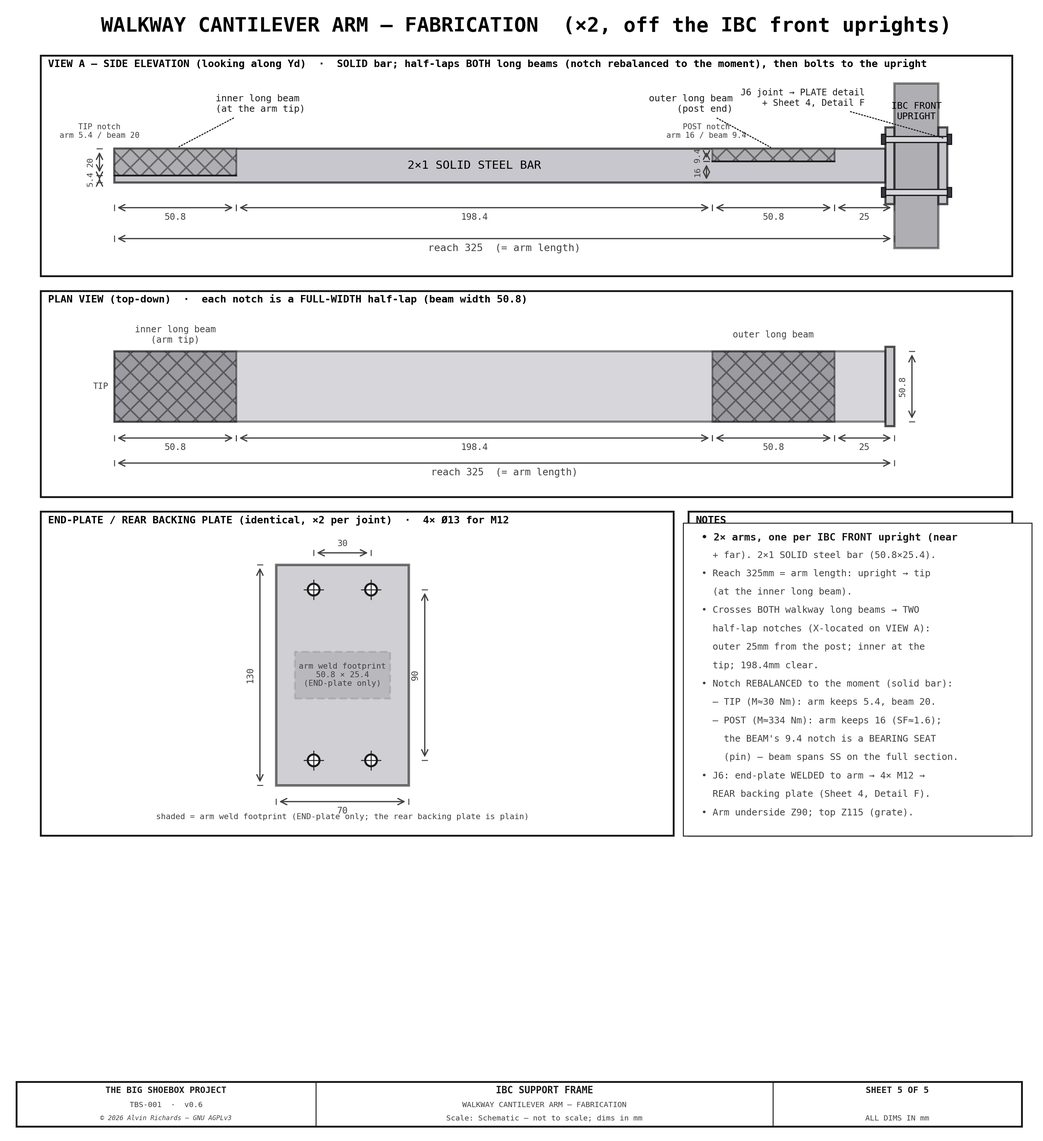
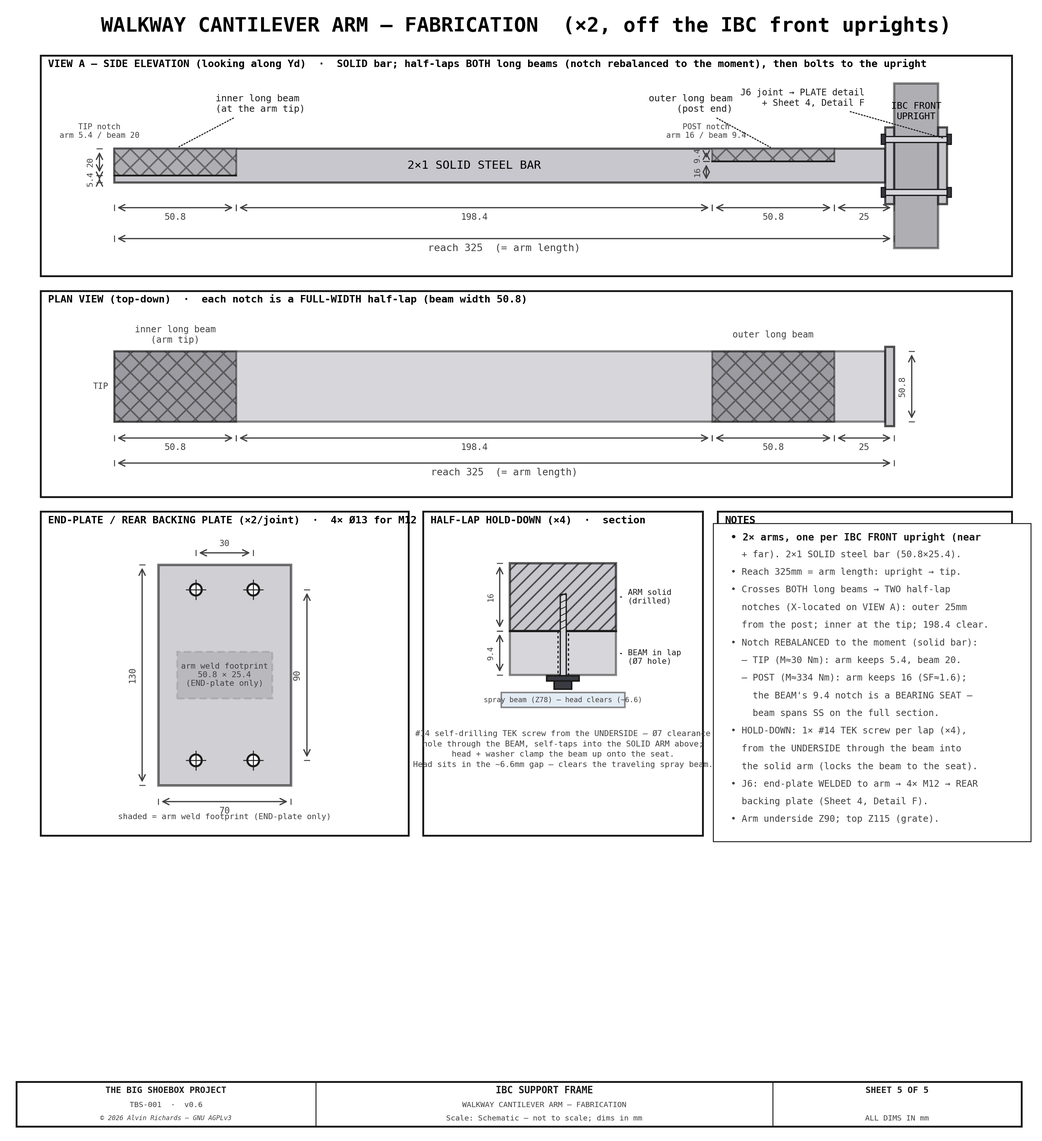
Half-lap hold-down: #14 TEK screw per lap (Sheet 5 detail + model + parts)
The long beams sat on the arm's bearing seat by gravity only. Added a positive
fastener: one #14 self-drilling TEK screw per half-lap (4 total: 2 arms x 2
crossings), driven from the UNDERSIDE through a O7 clearance hole in the beam,
self-tapping into the SOLID arm above (anti-lift/anti-slide; head sits in the
~6.6mm gap and clears the traveling spray beam).

- Sheet 5: new HALF-LAP HOLD-DOWN section (hatched arm on top, beam+hole below,
  screw from the underside).
- Model: ibc_cantilever_arms gains the 4 TEK-screw cylinders at the crossings.
- parts.py: +walkway-arm-holddown (4x #14 TEK + washer); costing +$2/$3/$4
  (walkway 2,150/2,593/3,060; grand total 26,742/31,272/37,875).
- Report 3.4 note + RELEASE.

diff --git a/src/generators/costing.py b/src/generators/costing.py
@@ -153,6 +153,7 @@ WALKWAY = [
     LineItem("Combined corner plates, 10mm steel (×2)", 50, 65, 80, "Right corners — shared with the bottom film rail"),
     LineItem("M12×70 partial-thread bolts + nuts/washers (~20)", 53, 53, 53, "91280A732 $1.736 + plain nut + 4 flat + split /bolt; wall cleats + combined plates (the 2 center arms moved to the J6 end-plate line below, −4 bolts)"),
     LineItem("Walkway-arm J6 end-plate hardware (8× M12×100 + 4 plates 70×130×8 + 8 crush sleeves)", 33, 44, 55, "2026-08-16: the arm→upright joint is a bolted END-PLATE (welded to arm) + rear backing plate + 4 M12/arm through the upright, with an internal crush sleeve/bolt (mirrors the container-wall cantilever detail). ESTIMATE — firm SKUs at fab."),
+    LineItem("Half-lap hold-down screws (#14 TEK + washer, ×4)", 2, 3, 4, "2026-08-16: 1 self-drilling TEK screw per half-lap (2 arms × 2 crossings), from the underside through a Ø7 clearance hole in the beam into the solid arm — positively secures the beam to the bearing seat (410 SS, J8/J9 family)."),
     LineItem("316 SS hold-down clips (FRP M/G-clip, ×20)", 25, 32, 40, "Near/far/right walkway GRP grating retention"),
     LineItem("Drum-exit punch-out — extra GRP grating (~0.23 m²)", 50, 57, 65, "600mm-deep landing at the light-lock exit"),
     LineItem("Left floor-leg cantilever brackets (×5)", 65, 80, 105, "#26: 2×2×0.120in SHS posts + 2×1×0.120in arms (was 50×50×3 + 40×40×3) + foot plates; material firm MetalsDepot, fab deferred"),
@@ -1026,8 +1027,8 @@ EXPECTED = { # the figures the docs are reconciled to (this session)
     "lean": {"chem": 951, "total": 1250, "per_print": 25}, # 2026-07-26: Artcraft bulk — AmFe $64.20/kg + ferricyanide $51.01/kg
     "standard": {"chem": 1414, "total": 1710, "per_print": 34}, # 2026-07-26: Artcraft bulk — AmFe $64.20/kg + ferricyanide $51.01/kg
     "rich": {"chem": 2802, "total": 3100, "per_print": 62}, # 2026-07-26: Artcraft bulk — AmFe $64.20/kg + ferricyanide $51.01/kg
-    "grand_total": (26740, 31269, 37871), # 2026-08-16: +$62/$85/$108 walkway (RWK center arms → solid 2×1 flat bar + J6 end-plate hardware). 2026-08-15: +$11/$20 water (36 TEK bracket→post screws, J8/J9). 2026-08-15: −$12 ibc-frame (J7 reverted to 1 centered/bar, 16→8 M12×40). 2026-08-14: +$12 ibc-frame (8 M12×40 wall-end bar retention bolts J7 — bar bolted, not welded, to the hanger). 2026-08-14: +$38/$66 ibc-frame (hangers/plates doubled to identical 2-bolt per-bar units). 2026-08-14: +$40/$80 ibc-frame (doubled retaining bars + anti-slip mats, EN 12195-1 loaded case). 2026-08-13: net +2 — M6 spray fasteners +3 (304 A2 91287A137) less M8 film fixing −1 (304 A2 91310A535). 2026-08-13: +~$403 film — Belden SSNBUJ750x3/8KB needle-bearing keyed+booted U-joint (41D816) replaces plain UJ-SS750x375 + separate boot. 2026-08-10 (corner blueprint): +$135 film — cross-slide bars grown for ±40°/±28°. 2026-08-08 (#29): +$33/$46/$61 pump-run supports. 2026-08-07 (#26): +$107/+$123 walkway — real 2×1 section pricing. # 2026-08-07 (#29): +$54 water — pump flex both ports. # 2026-08-07 (#30): +$32/+$32/+$32 water — captive tee-nut ply-mount hardware (¼-20 + 5/16 pronged tee-nuts firm $1.57/4pk + zinc machine screws est) less the retired filter lag screws. 2026-08-07: −$120 water — 2-way BVs re-sourced to Grainger 803HZ1 $24.14 (was US Plastic $44.27), 6× valves. 2026-08-05: +$58 water — pinhole-wall filter-skid backing ply (previously uncosted). 2026-08-04: +$38 water — 2nd accumulator ACC-02 (recycle-spray damper, $36) + 2× ½" adapters ($2). 2026-08-02: tray SS sheet #4→2B mill finish (−$110/−$150 est, drain pan needs no brush — tray-research.md). 2026-08-01: ibc-frame M12×40 cleat bolts firm McMaster 92314A744 $14.73/10. 2026-08-01: corner L-plates firm $58.90 ea ×4 (+$28-84). 2026-08-01: GHS labels firm $23.99 (pictogram perforated); spray zip ties HF $2.68; SS beam → single 16ft 0.062in Metals Depot $153.80 (no butt weld, sag-checked; −$394) + carriage plate $124.88. 2026-07-31: water re-price round 2 — shurflo-bracket retired (ships w/ pump −$50), pipe clips/wire/pH buffers firmed −$15. 2026-07-31: citric acid +$31; electrical section CLOSED — all parts sourced (bonding-kit Panduit $95.79, wet-zone DT pairs $27.42, ground-wire MTW $52, mppt ANL60 $6.99, led-connectors, dielectric-grease, powerpole). 2026-07-29: +$16 1" PVC recount 2→4 sticks. 2026-07-28: +$37 water (transition-adapter +$8, sump pickup +$45, spray Option 1 −$8). Earlier: external power panel penetration box; MC4 bulkheads, cooler outlet, PV disconnect, spray 90° jets.
-    "walkway": (2148, 2590, 3056), # 2026-08-16: +$62/+$85/+$108 — RWK center arms hollow tube → SOLID 2×1 flat bar (split out) + J6 end-plate hardware (8× M12×100 + 4 plates + 8 crush sleeves) less 4 arm-clamp M12×70. # 2026-08-07 (#26): +$107/+$123 — RWK frame 2×⅞ (non-stock) → 2×1×0.120 real MetalsDepot price + floor-leg arms 2×1. # 2026-07-23b: bump extended 2nd rib toward IBC — 1 near bracket std->widened (+$12/$22)
+    "grand_total": (26742, 31272, 37875), # 2026-08-16b: +$2/$3/$4 walkway (4× #14 TEK half-lap hold-down). 2026-08-16: +$62/$85/$108 walkway (RWK center arms → solid 2×1 flat bar + J6 end-plate hardware). 2026-08-15: +$11/$20 water (36 TEK bracket→post screws, J8/J9). 2026-08-15: −$12 ibc-frame (J7 reverted to 1 centered/bar, 16→8 M12×40). 2026-08-14: +$12 ibc-frame (8 M12×40 wall-end bar retention bolts J7 — bar bolted, not welded, to the hanger). 2026-08-14: +$38/$66 ibc-frame (hangers/plates doubled to identical 2-bolt per-bar units). 2026-08-14: +$40/$80 ibc-frame (doubled retaining bars + anti-slip mats, EN 12195-1 loaded case). 2026-08-13: net +2 — M6 spray fasteners +3 (304 A2 91287A137) less M8 film fixing −1 (304 A2 91310A535). 2026-08-13: +~$403 film — Belden SSNBUJ750x3/8KB needle-bearing keyed+booted U-joint (41D816) replaces plain UJ-SS750x375 + separate boot. 2026-08-10 (corner blueprint): +$135 film — cross-slide bars grown for ±40°/±28°. 2026-08-08 (#29): +$33/$46/$61 pump-run supports. 2026-08-07 (#26): +$107/+$123 walkway — real 2×1 section pricing. # 2026-08-07 (#29): +$54 water — pump flex both ports. # 2026-08-07 (#30): +$32/+$32/+$32 water — captive tee-nut ply-mount hardware (¼-20 + 5/16 pronged tee-nuts firm $1.57/4pk + zinc machine screws est) less the retired filter lag screws. 2026-08-07: −$120 water — 2-way BVs re-sourced to Grainger 803HZ1 $24.14 (was US Plastic $44.27), 6× valves. 2026-08-05: +$58 water — pinhole-wall filter-skid backing ply (previously uncosted). 2026-08-04: +$38 water — 2nd accumulator ACC-02 (recycle-spray damper, $36) + 2× ½" adapters ($2). 2026-08-02: tray SS sheet #4→2B mill finish (−$110/−$150 est, drain pan needs no brush — tray-research.md). 2026-08-01: ibc-frame M12×40 cleat bolts firm McMaster 92314A744 $14.73/10. 2026-08-01: corner L-plates firm $58.90 ea ×4 (+$28-84). 2026-08-01: GHS labels firm $23.99 (pictogram perforated); spray zip ties HF $2.68; SS beam → single 16ft 0.062in Metals Depot $153.80 (no butt weld, sag-checked; −$394) + carriage plate $124.88. 2026-07-31: water re-price round 2 — shurflo-bracket retired (ships w/ pump −$50), pipe clips/wire/pH buffers firmed −$15. 2026-07-31: citric acid +$31; electrical section CLOSED — all parts sourced (bonding-kit Panduit $95.79, wet-zone DT pairs $27.42, ground-wire MTW $52, mppt ANL60 $6.99, led-connectors, dielectric-grease, powerpole). 2026-07-29: +$16 1" PVC recount 2→4 sticks. 2026-07-28: +$37 water (transition-adapter +$8, sump pickup +$45, spray Option 1 −$8). Earlier: external power panel penetration box; MC4 bulkheads, cooler outlet, PV disconnect, spray 90° jets.
+    "walkway": (2150, 2593, 3060), # 2026-08-16b: +$2/+$3/+$4 — 4× #14 TEK half-lap hold-down screws. 2026-08-16: +$62/+$85/+$108 — RWK center arms hollow tube → SOLID 2×1 flat bar (split out) + J6 end-plate hardware (8× M12×100 + 4 plates + 8 crush sleeves) less 4 arm-clamp M12×70. # 2026-08-07 (#26): +$107/+$123 — RWK frame 2×⅞ (non-stock) → 2×1×0.120 real MetalsDepot price + floor-leg arms 2×1. # 2026-07-23b: bump extended 2nd rib toward IBC — 1 near bracket std->widened (+$12/$22)
     "water": (6719, 7341, 7975), # 2026-08-15: +$11/$20 — 36 TEK bracket→post screws (J8/J9, brackets no longer welded). 2026-08-15: −$12 ibc-frame — J7 reverted to 1 centered/bar (16→8 M12×40). 2026-08-14: +$12 ibc-frame — 8 M12×40 wall-end bar retention bolts (J7; bar bolted, not welded, to the hanger). 2026-08-14: +$38/$66 ibc-frame — hangers/backing plates doubled to 8 identical 2-bolt per-bar units (fab simplicity). 2026-08-14: +$40/$80 ibc-frame — 8 retaining bars (doubled) + 4 anti-slip mats (EN 12195-1 loaded-transport case). 2026-08-13: +3 spray — carriage/beam-clamp/saddle M6 fasteners (bolt-m6x20) upgraded zinc→304 A2 (McMaster 91287A137 $17.77/50). 2026-08-08 (#29): +$33/$46/$61 — pump-run support boards + 12 L-brackets + 39 P-clips (corridor/spine/skid). 2026-08-07 (#29): +$54 pump flex both ports (braided +1 length + barbs + clamps). # 2026-08-07 (#30): +$32/+$32/+$32 — captive tee-nut ply-mount hardware (tee-nuts firm + zinc machine screws est) less retired filter lag screws. 2026-08-05: +$58 — pinhole-wall filter-skid backing ply (previously uncosted, ~1795×1440 exterior, pieced 2 sheets @ $29.30). 2026-08-04: +$38 — 2nd accumulator ACC-02 (recycle-spray damper on the filter skid, $36) + 2× ½" adapters for its inline landings ($2). 2026-08-01: §5 — tray SS sheet #4→2B finish (−$110/−$150 est); ibc-frame front-bar bolts M12×40 firm McMaster 92314A744 $14.73/10; GHS labels firm $23.99 (pictogram perforated); spray zip ties HF $2.68, SS beam single 16ft 0.062in Metals Depot $153.80 (no weld, −$394), carriage plate $124.88. 2026-07-31: water re-price — shurflo-bracket retired (−$50), clips/wire/pH buffers firmed; net −$34 from citric acid +$31. 2026-07-29: 1" PVC recount 2→4 sticks (+$16, IBC internal fill/drain). 2026-07-28: transition-adapter takeoff +$8; sump pickup firmed +$45; spray Option 1 single center feed −$8. Earlier: 90° down-jets 26→39; carbon Aquaboon; SV taps 36903; nitrile; tray shims $295.96.
     "container": (2300, 3300, 4300),
     "lightlock": (2046, 2280, 2516), # 2026-07-27: light-trap seam silicone firm — Maxisil black 10.5oz $19.91 (+$14/+$10). 2026-07-22: Ø900 housing (46685 3/16" HDPE ×3 = $555) + Ø864 drum firmed to 1/8" black HDPE ×3 = $370. §6 = hinged-panel §8.2 (housing + drum) line items

diff --git a/src/generators/generate_ibc_frame_drawing.py b/src/generators/generate_ibc_frame_drawing.py
@@ -1317,8 +1317,8 @@ def sheet5():
     draw_dim_h(ax, XT, XUP, zcp - 34, "reach 325  (= arm length)", fs=6.3, font=FONT, above=False)
 
     # ── END-PLATE — bolt-hole locations, arm weld footprint shadow-marked ──
-    _dcell(ax, 20, 40, 860, 440, "END-PLATE / REAR BACKING PLATE (identical, ×2 per joint)  ·  4× Ø13 for M12")
-    cx, cz, pw2, ph2 = 430, 258, 90, 150                       # plate center + half width/height drawn (70 × 130 real)
+    _dcell(ax, 20, 40, 500, 440, "END-PLATE / REAR BACKING PLATE (×2/joint)  ·  4× Ø13 for M12")
+    cx, cz, pw2, ph2 = 270, 258, 90, 150                       # plate center + half width/height drawn (70 × 130 real)
     ax.add_patch(Rectangle((cx - pw2, cz - ph2), 2*pw2, 2*ph2, fc=C_STEEL, ec=C_OUT, alpha=0.6, lw=1.6, zorder=5))   # the plate
     ax.add_patch(Rectangle((cx - 65, cz - 32), 130, 64, fc=C_OUT, ec=C_OUT, alpha=0.12, ls=(0, (4, 2)), lw=1.2, zorder=6))  # arm weld footprint (SHADOW)
     ax.text(cx, cz, "arm weld footprint\n50.8 × 25.4\n(END-plate only)", fontsize=5.2, ha="center", va="center", color=C_DIM, **FONT, zorder=8)
@@ -1331,29 +1331,54 @@ def sheet5():
     draw_dim_v(ax, cx - pw2 - 22, cz - ph2, cz + ph2, "130", fs=5.8, font=FONT)                     # plate height
     draw_dim_h(ax, cx - 39, cx + 39, cz + ph2 + 16, "30", fs=5.6, font=FONT, above=True)            # bolt H pitch
     draw_dim_v(ax, cx + pw2 + 22, cz - 116, cz + 116, "90", fs=5.8, font=FONT)                      # bolt V pitch
-    ax.text(cx, cz - ph2 - 46, "shaded = arm weld footprint (END-plate only; the rear backing plate is plain)",
+    ax.text(cx, cz - ph2 - 46, "shaded = arm weld footprint (END-plate only)",
             fontsize=5.2, ha="center", color=C_DIM, **FONT)
 
+    # ── DETAIL — HALF-LAP HOLD-DOWN (the TEK screw that secures the beam to the arm at each lap) ──
+    _dcell(ax, 540, 40, 380, 440, "HALF-LAP HOLD-DOWN (×4)  ·  section")
+    hx, mw = 730, 72                                                                      # section center X / half-width
+    zbb, zs, zat = 258, 318, 410                                                          # beam bottom / half-lap line / arm top (drawn) — ARM on TOP, BEAM below (rotated)
+    ax.add_patch(Rectangle((hx - mw, zs), 2 * mw, zat - zs, fc=C_STEEL, ec=C_OUT, alpha=0.7, lw=1.5, hatch="///", zorder=5))  # ARM kept-16 (solid, DRILLED) — on top
+    ax.add_patch(Rectangle((hx - mw, zbb), 2 * mw, zs - zbb, fc=C_STEEL, ec=C_OUT, alpha=0.5, lw=1.4, zorder=5))              # BEAM in the lap (Ø7 HOLE) — below
+    ax.plot([hx - mw, hx + mw], [zs, zs], color=C_OUT, lw=1.2, zorder=8)                  # bearing interface (half-lap line)
+    leader(ax, hx + mw, (zs + zat) / 2, hx + mw + 16, (zs + zat) / 2, "ARM solid\n(drilled)", fs=5.2, font=FONT, ha="left")
+    leader(ax, hx + mw, (zbb + zs) / 2, hx + mw + 16, (zbb + zs) / 2 - 6, "BEAM in lap\n(Ø7 hole)", fs=5.2, font=FONT, ha="left")
+    ax.add_patch(Rectangle((hx - 7, zbb), 14, zs - zbb, fc="none", ec=C_OUT, lw=0.8, ls=(0, (2, 2)), zorder=8))  # clearance hole in the BEAM
+    ax.add_patch(Rectangle((hx - 4, 250), 8, 118, fc=C_SHANK, ec=C_OUT, lw=0.8, zorder=9))              # shank: UP from the head, through the beam, into the arm
+    for zt_ in range(320, 366, 9):
+        ax.plot([hx - 4, hx + 4], [zt_, zt_ + 4], color=C_OUT, lw=0.5, zorder=10)          # thread ticks (in the ARM, above the lap)
+    ax.add_patch(Rectangle((hx - 22, zbb - 8), 44, 7, fc=C_BOLT, ec=C_OUT, lw=1.0, zorder=11))       # washer (under the beam)
+    ax.add_patch(Rectangle((hx - 12, zbb - 19), 24, 11, fc=C_BOLT, ec=C_OUT, lw=1.0, zorder=11))     # hex head (underside)
+    ax.add_patch(Rectangle((hx - mw - 12, 214), 2 * mw + 24, 20, fc="#C8D8E8", ec=C_OUT, lw=1.0, alpha=0.5, zorder=4))  # spray beam (context, below)
+    ax.text(hx, 224, "spray beam (Z78) — head clears (~6.6)", fontsize=4.6, ha="center", va="center", color=C_DIM, **FONT, zorder=8)
+    draw_dim_v(ax, hx - mw - 14, zs, zat, "16", fs=5.0, font=FONT)
+    draw_dim_v(ax, hx - mw - 14, zbb, zs, "9.4", fs=5.0, font=FONT)
+    ax.text(hx, 175, "#14 self-drilling TEK screw from the UNDERSIDE — Ø7 clearance", fontsize=5.2, ha="center", color=C_DIM, **FONT)
+    ax.text(hx, 161, "hole through the BEAM, self-taps into the SOLID ARM above;", fontsize=5.2, ha="center", color=C_DIM, **FONT)
+    ax.text(hx, 147, "head + washer clamp the beam up onto the seat.", fontsize=5.2, ha="center", color=C_DIM, **FONT)
+    ax.text(hx, 133, "Head sits in the ~6.6mm gap — clears the traveling spray beam.", fontsize=5.2, ha="center", color=C_DIM, **FONT)
+
     # ── NOTES ──
-    _dcell(ax, 900, 40, 440, 440, "NOTES")
+    _dcell(ax, 940, 40, 400, 440, "NOTES")
     draw_notes(ax, [
         "• 2× arms, one per IBC FRONT upright (near",
         "  + far). 2×1 SOLID steel bar (50.8×25.4).",
-        "• Reach 325mm = arm length: upright → tip",
-        "  (at the inner long beam).",
-        "• Crosses BOTH walkway long beams → TWO",
-        "  half-lap notches (X-located on VIEW A):",
-        "  outer 25mm from the post; inner at the",
-        "  tip; 198.4mm clear.",
+        "• Reach 325mm = arm length: upright → tip.",
+        "• Crosses BOTH long beams → TWO half-lap",
+        "  notches (X-located on VIEW A): outer 25mm",
+        "  from the post; inner at the tip; 198.4 clear.",
         "• Notch REBALANCED to the moment (solid bar):",
         "  – TIP (M≈30 Nm): arm keeps 5.4, beam 20.",
         "  – POST (M≈334 Nm): arm keeps 16 (SF≈1.6);",
-        "    the BEAM's 9.4 notch is a BEARING SEAT",
-        "    (pin) — beam spans SS on the full section.",
-        "• J6: end-plate WELDED to arm → 4× M12 →",
-        "  REAR backing plate (Sheet 4, Detail F).",
+        "    the BEAM's 9.4 notch is a BEARING SEAT —",
+        "    beam spans SS on the full section.",
+        "• HOLD-DOWN: 1× #14 TEK screw per lap (×4),",
+        "  from the UNDERSIDE through the beam into",
+        "  the solid arm (locks the beam to the seat).",
+        "• J6: end-plate WELDED to arm → 4× M12 → REAR",
+        "  backing plate (Sheet 4, Detail F).",
         "• Arm underside Z90; top Z115 (grate).",
-    ], 918, 452, spacing=25, fs=6.0, font=FONT, width=424)
+    ], 958, 452, spacing=24, fs=5.9, font=FONT, width=384)
 
     title_block(ax, "SHEET 5 OF 5",
                 drawing_title="IBC SUPPORT FRAME",

diff --git a/src/generators/parts.py b/src/generators/parts.py
@@ -1007,6 +1007,9 @@ PARTS: list[Part] = [
     Part("walkway-arm-sleeves", "Walkway-arm J6 crush sleeves", "steel-structural",
          "walkway", 8, "ea", 0.75, 1.5, "Local fab",
          spec="Internal spacer/crush tube (~Ø14 ID over the M12) cut to the upright bore depth — one per J6 through-bolt (4/arm × 2) so tightening can't collapse the hollow RHS upright. Cut from steel tube offcut."),
+    Part("walkway-arm-holddown", "Half-lap hold-down screws (#14 TEK + washer)", "fasteners-hardware",
+         "walkway", 4, "ea", 0.5, 1.0, "Bridge Fasteners",
+         spec="1× #14 self-drilling TEK screw + washer per half-lap (4 total: 2 arms × 2 crossings) — driven from the underside through a Ø7 clearance hole in the long beam, self-tapping into the SOLID arm above, so the beam is positively secured to the bearing seat (anti-lift/anti-slide). Head clears the traveling spray beam (~6.6mm). 410 SS self-driller, same family as the J8/J9 bracket screws."),
     Part("nut-m12-plain", "M12 hex nut, plain", "fasteners-hardware",
          "walkway", 24, "ea", 12.78 / 50, 12.78 / 50, "McMaster-Carr", part_no="90591A181", url="https://www.mcmaster.com/90591A181/", spec="Plain hex nut — M12×70 right-walkway bolts (+ split lock washer). $12.78/pack of 50. Pitch M12×1.75 coarse — confirmed vs 90591A181 PDF 2026-07-29."),
     Part("washer-m12-flat", "M12 flat washer, zinc", "fasteners-hardware",

diff --git a/src/models/generate_sketchup_model.py b/src/models/generate_sketchup_model.py
@@ -781,6 +781,9 @@ def ibc_cantilever_arms(x_to=None):
         for dy in (-15, 15):
             for dz in (-45, 45):
                 parts.append(ruby_cylinder(f"RWk J6 bolt M12 Yd{yd}", RWK_X_UP - ep_t, ac_y + dy, ac_z + dz, 6, IBC_FRAME_RHS + 2*ep_t, color=C_STEEL, axis="x"))
+        # half-lap HOLD-DOWN: 1 #14 TEK screw per crossing (from the underside, through the beam into the arm)
+        for bx in sorted(b for b in RWK_BEARER_XS if x_to - 1 < b < RWK_X_UP):
+            parts.append(ruby_cylinder(f"RWk half-lap TEK screw Yd{yd} X{int(bx)}", bx + RWK_BEARER_W / 2.0, ac_y, RWK_ARM_BOT - 5, 3, RWK_AH + 5, color=C_STEEL, axis="z"))
     return parts
 
 

diff --git a/project-cost-breakdown.md b/project-cost-breakdown.md
@@ -22,14 +22,14 @@
 | **5a. Power & electrical system (solar · 1× LiFePO4 · MPPT · distribution · lighting · protection · master pump switch)** | $3,431 | $3,464 | $3,496 |
 | **5b. Ventilation & cooling system (2 fans · evap cooler **+ 12V→120V inverter** · light-safe baffle-duct fab · shade canopy)** | $748 | $808 | $898 |
 | **6. Housed revolving-door light lock (plastic-skin custom fabrication)** | $2,046 | $2,280 | $2,516 |
-| **6a. Perimeter walkway (4 sections + drum-exit punch-out)** | $2,148 | $2,590 | $3,056 |
+| **6a. Perimeter walkway (4 sections + drum-exit punch-out)** | $2,150 | $2,593 | $3,060 |
 | **6b. Panel swing pivot + fixed door frame (Ø89 post + bearings + cage + wall stays + rail saddles)** | $1,180 | $1,395 | $1,610 |
 | **6c. Hinged panel structure (stepped frame + HDPE skins + Al core + EPDM + cam latches + B2 bay + pull handle)** | $1,278 | $1,382 | $1,484 |
 | **6d. Chemistry prep shelf (fold-down phenolic board + steel frame + hinge/stays + TAP-01 trunk extension)** | $223 | $229 | $235 |
 | **7. Printmaking — 50 prints (cyanotype; Low=Lean, Mid=Standard, High=Rich tier)** | $1,250 | $1,710 | $3,100 |
 | **8. Transportation (per deployment)** | $300 | $750 | $2,000 |
 | **9. Licenses & permits** | $220 | $790 | $1,620 |
-| **TOTAL (excl. own transport, CDL, lens)** | **$26,740** | **$31,269** | **$37,871** |
+| **TOTAL (excl. own transport, CDL, lens)** | **$26,742** | **$31,272** | **$37,875** |
 <!-- END costing:scenario -->
 
 *Line 7 (cyanotype printmaking) is now re-summed into the TOTAL on the **Mike Ware New Cyanotype** chemistry (ferric ammonium oxalate) + corrected ~$300 substrate: **Low = Lean ⅓-Ware ($1,250), Mid = Standard ½-Ware ($1,710), High = Rich full-Ware ($3,100)** — matching §7.1 and the master shopping list §9. The tier is pinned by the [Sensitizer Trials](sensitizer-trials.md).*
@@ -313,12 +313,13 @@ Left walkway: removable lift-out grate on 5 floor-leg cantilever brackets bolted
 | Combined corner plates, 10mm steel (×2) | $50 | $65 | $80 | Right corners — shared with the bottom film rail |
 | M12×70 partial-thread bolts + nuts/washers (~20) | $53 | $53 | $53 | 91280A732 $1.736 + plain nut + 4 flat + split /bolt; wall cleats + combined plates (arms moved to the J6 end-plate line) |
 | Walkway-arm J6 end-plate hardware (8× M12×100 + 4 plates 70×130×8 + 8 crush sleeves) | $33 | $44 | $55 | Bolted end-plate joint (welded to arm) + rear backing plate + 4 M12/arm through the upright + internal crush sleeve/bolt |
+| Half-lap hold-down screws (#14 TEK + washer, ×4) | $2 | $3 | $4 | 1 self-drilling TEK screw per half-lap — from the underside through a Ø7 hole in the beam into the solid arm; positively secures the beam to the seat |
 | 316 SS hold-down clips (FRP M/G-clip, ×20) | $25 | $32 | $40 | Near/far/right walkway GRP grating retention |
 | Drum-exit punch-out — extra GRP grating (~0.23 m²) | $50 | $57 | $65 | 600mm-deep landing at the light-lock exit |
 | Left floor-leg cantilever brackets (×5) | $65 | $80 | $105 | 2×2×0.120in posts + 2×1×0.120in arms + foot plates |
 | Floor screws — #14×2″ HWH 410 SS self-drilling (×20) | $7 | $9 | $11 | 2026-07-22: wedge anchors → structural self-drillers (ply-over-steel container floor); Bridge Fasteners ~$0.35–0.55 ea |
 | Fabrication (brackets, cantilever frame, install) | $424 | $590 | $750 | 13 std + 5 widened brackets, right cantilever frame, 5 left floor-leg brackets, install; bracket scope matches the walkway-report §10 all-in figures; trimmed −$30/−$58 to reconcile with the parts registry after the M12 bolts firmed to real flat prices |
-| **Perimeter walkway total** | **$2,148** | **$2,590** | **$3,056** | |
+| **Perimeter walkway total** | **$2,150** | **$2,593** | **$3,060** | |
 <!-- END costing:walkway -->
 
 ---
@@ -527,14 +528,14 @@ Permit requirements vary by jurisdiction. Estimates below are based on general k
 | Power & electrical system (solar · 1× LiFePO4 · distribution · lighting · protection · master pump switch) | $3,431 |
 | Ventilation & cooling system (2 fans · evap cooler + inverter · light-safe baffle-duct fab · shade canopy) | $748 |
 | Revolving drum light trap (plastic-skin custom fabrication) | $2,046 |
-| Perimeter walkway (4 sections, removable, GRP grating) | $2,148 |
+| Perimeter walkway (4 sections, removable, GRP grating) | $2,150 |
 | Panel swing pivot + fixed door frame (Ø89 pivot + bearings + cage + wall stays + saddles + door frame) | $1,180 |
 | Hinged panel structure (stepped frame + HDPE skins + Al core + EPDM + latches + B2 bay + handle) | $1,278 |
 | Chemistry prep shelf (fold-down board + tap trunk extension) | $223 |
 | Cyanotype chemistry + substrate (50 prints) | $1,250 |
 | Transport per deployment (local) | $400 |
 | Permits (minimal) | $50 |
-| **Scenario A total** | **~$26,170** |
+| **Scenario A total** | **~$26,172** |
 <!-- END costing:scenario-a -->
 
 ### Scenario B — Recommended build, regional deployment
@@ -550,7 +551,7 @@ Permit requirements vary by jurisdiction. Estimates below are based on general k
 | Power & electrical system (solar · 1× LiFePO4 · distribution · lighting · protection · master pump switch) | $3,464 |
 | Ventilation & cooling system (2 fans · evap cooler + inverter · light-safe baffle-duct fab · shade canopy) | $808 |
 | Revolving drum light trap (plastic-skin custom fabrication) | $2,280 |
-| Perimeter walkway (4 sections, removable, GRP grating) | $2,590 |
+| Perimeter walkway (4 sections, removable, GRP grating) | $2,593 |
 | Panel swing pivot + fixed door frame (Ø89 pivot + bearings + cage + wall stays + saddles + door frame) | $1,395 |
 | Hinged panel structure (stepped frame + HDPE skins + Al core + EPDM + latches + B2 bay + handle) | $1,382 |
 | Chemistry prep shelf (fold-down board + tap trunk extension) | $229 |
@@ -558,7 +559,7 @@ Permit requirements vary by jurisdiction. Estimates below are based on general k
 | Rodenstock Apo-Ronar 1,200mm lens | $800 |
 | Transport per deployment (50–100 miles) | $900 |
 | Permits (typical public land) | $300 |
-| **Scenario B total (excl. CDL)** | **~$31,579** |
+| **Scenario B total (excl. CDL)** | **~$31,582** |
 <!-- END costing:scenario-b -->
 
 ### Scenario C — Full production, own transport, CDL
@@ -566,11 +567,11 @@ Permit requirements vary by jurisdiction. Estimates below are based on general k
 <!-- BEGIN costing:scenario-c -->
 | Item | Cost |
 |------|------|
-| Scenario B build (less the $900 commercial transport, replaced here by owned transport) | $30,679 |
+| Scenario B build (less the $900 commercial transport, replaced here by owned transport) | $30,682 |
 | CDL Class A training + medical + DMV | $4,500 |
 | QuickLoadz self-loading trailer | $35,000 |
 | Ford F-350+ pickup (if needed) | $50,000–$80,000 (new) |
-| **Scenario C total** | **~$120,179–$150,179** |
+| **Scenario C total** | **~$120,182–$150,182** |
 <!-- END costing:scenario-c -->
 
 *Own transport only makes sense if the camera will be deployed frequently. For fewer than 60 moves, commercial hire is cheaper.*

diff --git a/cost-analysis-report.md b/cost-analysis-report.md
@@ -11,7 +11,7 @@ capital from recurring/consumable spend, and ranks the realistic savings levers.
 
 All figures are the **mid-column** estimates from the
 [Cost Breakdown](project-cost-breakdown.md) (the itemized source of truth); the build
-mid-total is **~<!-- BEGIN costing:ca-mid-total -->$31,269<!-- END costing:ca-mid-total -->**.
+mid-total is **~<!-- BEGIN costing:ca-mid-total -->$31,272<!-- END costing:ca-mid-total -->**.
 
 ---
 
@@ -24,13 +24,13 @@ recurs or is consumed — savings strategy is different for each.
 <!-- BEGIN costing:ca-buckets -->
 | Bucket | Mid | What it is |
 |---|--:|---|
-| **Capital build** (one-time hardware) | **$28,019** | The systems you build once — this is where build-savings live |
+| **Capital build** (one-time hardware) | **$28,022** | The systems you build once — this is where build-savings live |
 | Consumable (per 50-print batch) | $1,710 | Cyanotype chemistry + substrate (Standard ½-Ware) — recurs every batch |
 | Recurring (per deployment) | $750 | Commercial-hire transport |
 | Soft / regulatory | $790 | Licenses & permits |
 <!-- END costing:ca-buckets -->
 
-Build-savings work on the **<!-- BEGIN costing:ca-capital -->$28,019<!-- END costing:ca-capital --> capital**. The <!-- BEGIN costing:ca-consumable -->$1,710<!-- END costing:ca-consumable --> consumable is attacked
+Build-savings work on the **<!-- BEGIN costing:ca-capital -->$28,022<!-- END costing:ca-capital --> capital**. The <!-- BEGIN costing:ca-consumable -->$1,710<!-- END costing:ca-consumable --> consumable is attacked
 separately (bulk chemistry, cheaper substrate) because it repeats every batch and
 quickly dominates lifetime cost.
 
@@ -47,7 +47,7 @@ Capital systems ranked by mid cost:
 | **Film-plane mechanism** | $4,470 | 16% | Carriages, Option-A 304 cross-slides, muslin spring clips, wall-seat saddles |
 | **Power & electrical** | $3,464 | 12% | Battery + solar + distribution + protection |
 | **Container + delivery** | $3,300 | 12% | Grade-dependent (CW vs WWT) |
-| **Perimeter walkway** | $2,590 | 9% | GRP grating + steel cantilevers |
+| **Perimeter walkway** | $2,593 | 9% | GRP grating + steel cantilevers |
 | **Light lock** | $2,280 | 8% | Plastic-skin custom fabrication |
 | **Swing pivot** | $1,395 | 5% | Pivot post + bearings + cage + fixed RHS door frame |
 | **Hinged panel structure** | $1,382 | 5% | Stepped frame + HDPE skins + Al core + EPDM + latches + B2 bay |
@@ -75,7 +75,7 @@ Ranked by dollar potential and ease. Status is updated as levers are actioned.
 | 5 | **Solar 3 → 2 panels** (if the power budget allows) | Power | ~<!-- BEGIN costing:ca-lever-solar -->$133<!-- END costing:ca-lever-solar --> | Easy | Available — computed (drop 1× 200W panel) |
 | 6 | **Valves / fittings value-engineering** | Water | ~<!-- BEGIN costing:ca-lever-valves-low -->$100<!-- END costing:ca-lever-valves-low -->–<!-- BEGIN costing:ca-lever-valves-high -->$200<!-- END costing:ca-lever-valves-high --> | Medium | Available |
 
-After the material decisions, the only still-**available** build-savings levers are **1 (container grade) + 5 (solar)** — together **~<!-- BEGIN costing:ca-savings-low -->$1,500<!-- END costing:ca-savings-low -->** off the <!-- BEGIN costing:ca-capital -->$28,019<!-- END costing:ca-capital --> capital build (**~<!-- BEGIN costing:ca-savings-pct-low -->5<!-- END costing:ca-savings-pct-low -->%**), plus ~$100–200 of valve value-engineering (#6). Everything else is settled: lever 2 **banked** (manual is the standard build), lever 3 **kept 304 SS** (decision), lever 4 **already 1×100 Ah**.
+After the material decisions, the only still-**available** build-savings levers are **1 (container grade) + 5 (solar)** — together **~<!-- BEGIN costing:ca-savings-low -->$1,500<!-- END costing:ca-savings-low -->** off the <!-- BEGIN costing:ca-capital -->$28,022<!-- END costing:ca-capital --> capital build (**~<!-- BEGIN costing:ca-savings-pct-low -->5<!-- END costing:ca-savings-pct-low -->%**), plus ~$100–200 of valve value-engineering (#6). Everything else is settled: lever 2 **banked** (manual is the standard build), lever 3 **kept 304 SS** (decision), lever 4 **already 1×100 Ah**.
 
 > **Derivation note.** Lever 1 (container grade), lever 5 (solar), and the roll-up total +
 > percentage are computed in `costing.py` — container is a true CW − WWT subtraction off the

diff --git a/ibc-stacking-report.md b/ibc-stacking-report.md
@@ -162,7 +162,7 @@ The two bars give **defense in depth**: as positive blocking they pass on their 
 **Service + walkway load cases** (the same frame also carries the plumbing panel and the walkway — both **non-governing** vs the transport case):
 
 - **Plumbing panel + pumps** (~20 kg on the 6 rear-panel brackets) = ~33 N/bracket, static — trivial (SF ≫ 10).
-- **Right-walkway cantilever** — each of the 2 arms carries ~22 kg dead + a 1 kN person point load at the deck (325 mm out from the upright) = a **395 N·m moment into the front upright**: the 50.8 RHS upright bends at **SF 6.9**, and the arm→upright connection — a **bolted end-plate** (a plate welded to the arm end, then 4× M12 through the upright into a **rear backing plate**, J6) carries the moment as a tension/compression couple across the bolt group: at the ~90 mm couple the top bolts see ~2.2 kN each (**SF > 20** on the M12s), and the rear backing plate spreads the reaction so the hollow RHS wall can't dish. The arm itself is a **solid 2×1 flat bar** (not a tube): each arm half-laps over *both* walkway long beams, and a notched hollow tube opens into a weak channel — a notched partial section has to be solid to keep its strength. The half-lap is **rebalanced to the moment**: a deep arm notch at the tip (M ≈ 30 N·m, arm keeps 5.4 mm), and at the post end (M ≈ 334 N·m) the **outer beam** takes the deep notch so the arm keeps 16 mm (**SF ≈ 1.6** on the solid bar). The outer beam's thin 9.4 mm notch sits at an arm support, but a thin channel can't carry that support's hogging — so the half-lap is a **bearing seat** (the beam's upper 9.4 mm rests on the arm's lower 16 at ~0.2 MPa), i.e. a pinned support. The beam therefore spans **simply-supported on its full 25.4 mm section** — **SF ≈ 7** and **~2 mm** deflection under a person (`ibc_frame_load.outer_beam_frame_check`; the light grate load and person-share are estimates to firm with the full walkway-frame model). The arm's fabrication is drawn on Sheet 5.
+- **Right-walkway cantilever** — each of the 2 arms carries ~22 kg dead + a 1 kN person point load at the deck (325 mm out from the upright) = a **395 N·m moment into the front upright**: the 50.8 RHS upright bends at **SF 6.9**, and the arm→upright connection — a **bolted end-plate** (a plate welded to the arm end, then 4× M12 through the upright into a **rear backing plate**, J6) carries the moment as a tension/compression couple across the bolt group: at the ~90 mm couple the top bolts see ~2.2 kN each (**SF > 20** on the M12s), and the rear backing plate spreads the reaction so the hollow RHS wall can't dish. The arm itself is a **solid 2×1 flat bar** (not a tube): each arm half-laps over *both* walkway long beams, and a notched hollow tube opens into a weak channel — a notched partial section has to be solid to keep its strength. The half-lap is **rebalanced to the moment**: a deep arm notch at the tip (M ≈ 30 N·m, arm keeps 5.4 mm), and at the post end (M ≈ 334 N·m) the **outer beam** takes the deep notch so the arm keeps 16 mm (**SF ≈ 1.6** on the solid bar). The outer beam's thin 9.4 mm notch sits at an arm support, but a thin channel can't carry that support's hogging — so the half-lap is a **bearing seat** (the beam's upper 9.4 mm rests on the arm's lower 16 at ~0.2 MPa), i.e. a pinned support. The beam therefore spans **simply-supported on its full 25.4 mm section** — **SF ≈ 7** and **~2 mm** deflection under a person (`ibc_frame_load.outer_beam_frame_check`; the light grate load and person-share are estimates to firm with the full walkway-frame model). Each half-lap is **positively secured** by one **#14 self-drilling TEK screw** (4 total) driven from the underside through a Ø7 clearance hole in the beam into the solid arm — an anti-lift/anti-slide locator whose head clears the traveling spray beam. The arm's fabrication (including the hold-down section) is drawn on Sheet 5.
 
 The load path, the EN 12195-1 method, and the full demand/capacity/SF matrix (driven from `ibc_frame_load.py`) are drawn on the load-case sheet:
 

diff --git a/walkway-report.md b/walkway-report.md
@@ -475,13 +475,14 @@ bounces noticeably less than the rod-hung version it replaces.
 | M12×100 hex through-bolt, Grade 8.8 zinc | J6 walkway-arm end-plate joint — 4 per arm × 2 arms, through the front upright into the rear backing plate (a bolted moment couple over the 90mm bolt spacing). Runs with a nyloc nut + an internal crush sleeve so torque can't dish the hollow upright. ESTIMATE — firm SKU at fab. | 8 ea | McMaster-Carr | $15–$19 |
 | Walkway-arm end + backing plates (J6) | 70×130×8mm mild-steel plate, 4× Ø13 for M12 at 30×90 pitch — 2 end-plates (welded to the arm ends) + 2 rear backing plates (plain), one set per arm. Cut+drill from A36 flat plate. | 4 ea | Local fab | $12–$24 |
 | Walkway-arm J6 crush sleeves | Internal spacer/crush tube (~Ø14 ID over the M12) cut to the upright bore depth — one per J6 through-bolt (4/arm × 2) so tightening can't collapse the hollow RHS upright. Cut from steel tube offcut. | 8 ea | Local fab | $6–$12 |
+| Half-lap hold-down screws (#14 TEK + washer) | 1× #14 self-drilling TEK screw + washer per half-lap (4 total: 2 arms × 2 crossings) — driven from the underside through a Ø7 clearance hole in the long beam, self-tapping into the SOLID arm above, so the beam is positively secured to the bearing seat (anti-lift/anti-slide). Head clears the traveling spray beam (~6.6mm). 410 SS self-driller, same family as the J8/J9 bracket screws. | 4 ea | Bridge Fasteners | $2–$4 |
 | [M12 hex nut, plain](https://www.mcmaster.com/90591A181/) (90591A181) | Plain hex nut — M12×70 right-walkway bolts (+ split lock washer). $12.78/pack of 50. Pitch M12×1.75 coarse — confirmed vs 90591A181 PDF 2026-07-29. | 24 ea | McMaster-Carr | $6 |
 | [M12 flat washer, zinc](https://www.mcmaster.com/91166a290/) (91166A290) | Flat washers, M12×70 right-walkway bolts — 2 functional + 2 shim/bolt (shims pad the grip if corrugation <30mm). | 96 ea | McMaster-Carr | $9 |
 | [M12 split lock washer, zinc](https://www.mcmaster.com/91202A246/) (91202A246) | Split lock washer under each nut — M12×70 right-walkway bolts (plain nut + split = locked). | 24 ea | McMaster-Carr | $3 |
 | Floor-leg cantilever bracket (left walkway, ×5) | 2×2×0.120in SHS post (~115mm) + 2×1×0.120in arm (2 reach X470, 3 extended to X770) + 128×60×8mm foot plate. #26: arm 2×⅞→2×1 (2×⅞ non-stock); post 50→50.8 (2in). Material firm (MetalsDepot 2×1 $6.35/ft + 2×2 $22.99/ft ret); cut/weld fab deferred to a shop quote. | 5 ea | MetalsDepot / Local fab | $65–$105 |
 | [Self-drilling structural screw, #14×2″ HWH, 410 SS](https://www.bridgefasteners.com/products/14-x-2-hex-washer-head-self-drilling-screws-410-stainless-steel-self-tapping-full-thread) | 4 per foot plate (20 total). Self-drills the 6mm plate + 28mm plywood (structural bite in the ply — wedge/concrete anchors don't hold in a ply-over-steel container floor). Hex washer head bears on the plate. 410 SS. Simpson SDWS 316 (pre-drilled plate holes) if max corrosion is wanted. | 20 ea | Bridge Fasteners / ASMC | $7–$11 |
 | Grating clips | Removable spring clips, stainless | 30 ea | McNichols / McMaster-Carr | $30–$50 |
-| **Walkway total** | | | | **$2,148–$3,056** |
+| **Walkway total** | | | | **$2,150–$3,060** |
 <!-- END parts:walkway -->
 
 *Evap-cooler transport-stowage hardware (plywood base plate + ratchet straps, §7) is costed in the [Ventilation & Cooling parts list](ventilation-report.md), not here.*

diff --git a/master-shopping-list.md b/master-shopping-list.md
@@ -18,14 +18,14 @@ Items are grouped by build area. Source documents are cross-referenced in each s
 | 6. Electrical — power, circuits, wiring | $3,431 | $3,496 |
 | 7. Housed revolving-door light lock (plastic-skin custom fabrication) | $2,046 | $2,516 |
 | 7a. Panel swing pivot + fixed door frame (Ø89 post + bearings + cage + wall stays + rail saddles + door frame) | $1,180 | $1,610 |
-| 7b. Perimeter walkway (4 sections + drum-exit punch-out) | $2,148 | $3,056 |
+| 7b. Perimeter walkway (4 sections + drum-exit punch-out) | $2,150 | $3,060 |
 | 7c. Hinged panel structure (stepped frame + HDPE skins + Al core + EPDM + cam latches + B2 bay + pull handle) | $1,278 | $1,484 |
 | 7d. Chemistry prep shelf (fold-down board + steel frame + hinge/stays + TAP-01 trunk extension) | $223 | $235 |
 | 8. Cooling & ventilation | $748 | $898 |
 | 9. Printmaking chemistry — cyanotype, 50 prints (Low = Lean, High = Rich tier) | $1,250 | $3,100 |
 | 10. Printmaking tools & consumables | $350 | $500 |
 | 11. Safety & PPE | $120 | $180 |
-| **TOTAL (base build + 50-print run)** | **~$26,690** | **~$34,931** |
+| **TOTAL (base build + 50-print run)** | **~$26,692** | **~$34,935** |
 <!-- END costing:master-summary -->
 
 *Optional additions: electric film plane actuation (+$827), lens plate (+$400–$1,500), self-haul transport (+$30,000–$40,000).*
@@ -269,9 +269,10 @@ indicative low–high estimates — get quotes before ordering.
 | [Nylon zip ties, 8in (200mm)](https://www.harborfreight.com/8-inch-black-cable-ties-pack-of-100-34635.html) (34635) | 1 100-pack | Harbor Freight | spray | $3 |
 | [5/16"-18 pronged tee-nut (filter housings)](https://www.homedepot.com/p/Everbilt-5-16-in-18-Zinc-Plated-Tee-Nut-4-Pack-825091/317478996) (825091) | 2 4-pack | Home Depot | water | $3 |
 | [1/4"-20 pronged tee-nut (ply-mount interfaces)](https://www.homedepot.com/p/Everbilt-1-4-in-20-Zinc-Plated-Tee-Nut-4-Pack-825001/317478995) (825001) | 10 4-pack | Home Depot | water | $16 |
+| Half-lap hold-down screws (#14 TEK + washer) | 4 ea | Bridge Fasteners | walkway | $2–$4 |
 | [Self-drilling structural screw, #14×2″ HWH, 410 SS](https://www.bridgefasteners.com/products/14-x-2-hex-washer-head-self-drilling-screws-410-stainless-steel-self-tapping-full-thread) | 20 ea | Bridge Fasteners | walkway | $7–$11 |
 | Grating clips | 30 ea | McNichols | walkway | $30–$50 |
-| **fasteners-hardware subtotal** | | | | **$1,782–$2,137** |
+| **fasteners-hardware subtotal** | | | | **$1,784–$2,141** |
 
 ### plastics-sheet
 
@@ -513,8 +514,8 @@ indicative low–high estimates — get quotes before ordering.
 | CountryMax (Aqueon) | 1 | seals-gaskets | $17–$25 |
 | Wurth Baer Supply | 1 | fasteners-hardware | $24 |
 | Local machine shop | 1 | aluminum | $12–$18 |
+| Bridge Fasteners | 2 | fasteners-hardware | $9–$15 |
 | misterworker | 1 | plumbing-fittings | $14 |
-| Bridge Fasteners | 1 | fasteners-hardware | $7–$11 |
 | Steel offcut | 1 | steel-structural | $5 |
 | Lowe's (Hillman) | 1 | fasteners-hardware | $2–$3 |
 | offcuts | 1 | water-equipment | $0 |

diff --git a/funding-proposal.md b/funding-proposal.md
@@ -84,7 +84,7 @@ The container moves by commercial hire tilt-bed truck. No CDL is required for th
 ## 6. Budget and Use of Funds
 All figures are drawn from the [full cost breakdown](project-cost-breakdown.md). Per-item procurement details with supplier URLs are in the [master shopping list](master-shopping-list.md). Three funding levels are presented to allow partial or phased support.
 
-### Level 1 — Core Build (~<!-- BEGIN costing:fund-l1-total -->$34,319<!-- END costing:fund-l1-total -->, Standard scenario)
+### Level 1 — Core Build (~<!-- BEGIN costing:fund-l1-total -->$34,322<!-- END costing:fund-l1-total -->, Standard scenario)
 Everything required to operate the camera for a first deployment. Figures are the Standard (Mid) column of the [cost breakdown](project-cost-breakdown.md); Low–High scenarios span ~<!-- BEGIN costing:fund-scenario-span -->$27,000–$38,000<!-- END costing:fund-scenario-span -->.
 
 <!-- BEGIN costing:funding-level1 -->
@@ -99,13 +99,13 @@ Everything required to operate the camera for a first deployment. Figures are th
 | Processing water system (tray, spray bar, 3-stage filtration, IBC stacking frame) | $7,341 |
 | Power & electrical (600W solar · LiFePO4 · MPPT · distribution · protection · lighting) | $3,464 |
 | Ventilation & cooling (2 fans · evap cooler + 12V→120V inverter · light-safe ducting) | $808 |
-| Perimeter walkway (4 sections + drum-exit punch-out) | $2,590 |
+| Perimeter walkway (4 sections + drum-exit punch-out) | $2,593 |
 | Panel swing pivot + fixed door frame (Ø89 post + bearings + cage + wall stays + door frame) | $1,395 |
 | Hinged panel structure (stepped frame + HDPE skins + Al core + EPDM + latches + B2 bay + handle) | $1,382 |
 | Chemistry prep shelf (fold-down board + frame + hinge/stays + tap trunk extension) | $229 |
 | Cyanotype chemistry + muslin substrate (50-print run, Standard tier) | $1,710 |
 | Contingency (10%) | ~$3,120 |
-| **Level 1 total** | **~$34,319** |
+| **Level 1 total** | **~$34,322** |
 <!-- END costing:funding-level1 -->
 
 ### Level 2 — First Deployment (+$1,025–2,750)
@@ -128,7 +128,7 @@ Video documentation, process photography, and initial publication:
 | Publication design (zine or catalog, print run) | $500–1,500 |
 | **Level 3 total** | **~$2,000–5,000** |
 
-**Combined (Levels 1+2+3):** ~<!-- BEGIN costing:fund-combined -->$37,344–42,069<!-- END costing:fund-combined --> for a complete first-year program with three public deployments, 50-print edition, and full documentation.
+**Combined (Levels 1+2+3):** ~<!-- BEGIN costing:fund-combined -->$37,347–42,072<!-- END costing:fund-combined --> for a complete first-year program with three public deployments, 50-print edition, and full documentation.
 
 ## 7. Timeline
 A 12-month build and deployment program:

diff --git a/RELEASE.md b/RELEASE.md
@@ -24,6 +24,14 @@ file** — a release must not ship without a changelog entry:
 
 ## [Unreleased]
 
+- **Half-lap hold-down — #14 TEK screw per lap (Sheet 5 detail + model + parts).** The long beams sat on the
+  arm's bearing seat by gravity only; added a positive fastener so they're secured. One **#14 self-drilling TEK
+  screw per half-lap** (4 total: 2 arms × 2 crossings), driven **from the underside** through a Ø7 clearance
+  hole in the beam, self-tapping into the **solid arm** above (anti-lift/anti-slide; the head sits in the
+  ~6.6 mm gap and clears the traveling spray beam). New **HALF-LAP HOLD-DOWN section** on Sheet 5 (hatched arm
+  on top / beam with the hole below / screw from underside), 3D model gains the 4 screws, `parts.py` +
+  `walkway-arm-holddown` (4× #14 TEK + washer), costing +$2/$3/$4, report §3.4 note.
+
 - **Walkway cantilever arm → SOLID 2×1 flat bar + rebalanced half-lap notch (structural fix + full cascade).**
   A review flagged the arm's half-lap notch as dangerously thin. Root cause: the arm half-laps over **both**
   right-walkway long beams, and a notched **hollow** tube opens into a weak channel (the un-notched LEFT
